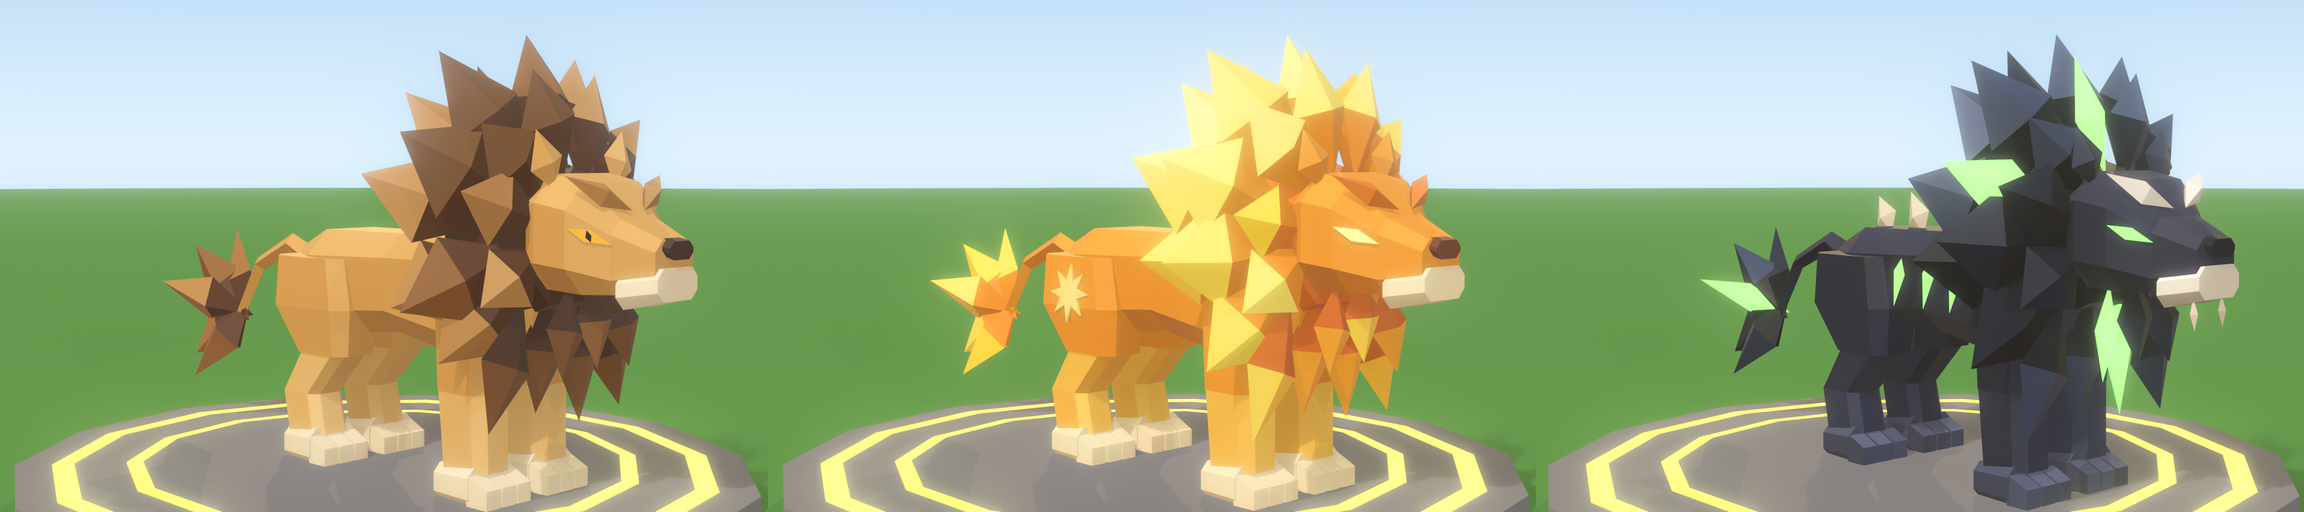
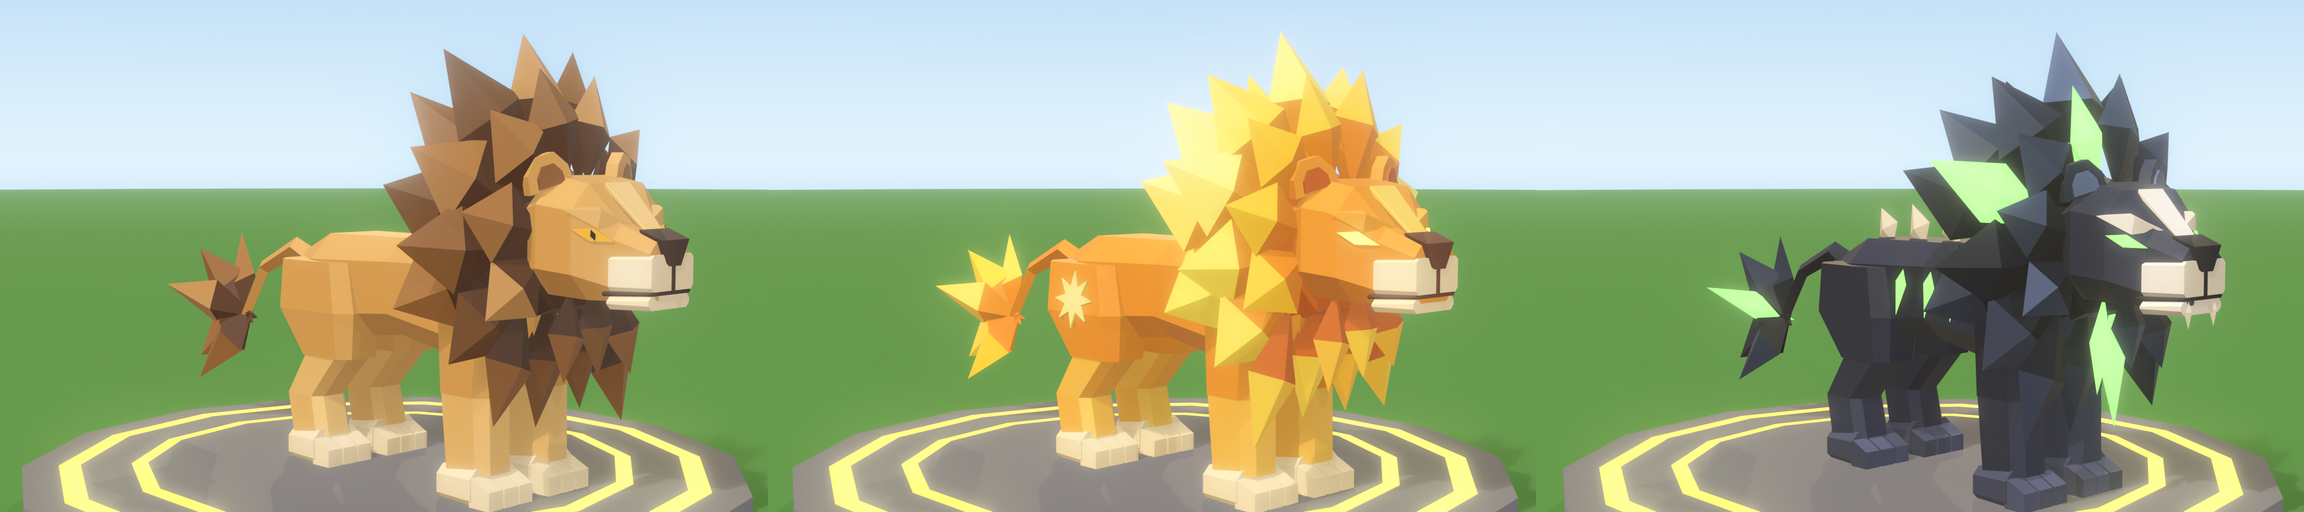
STATION-033: lion faces after the reference (wrapped muzzle, nose wedge, mouth line, brow ledge, rounded ears)

diff --git a/tools/blender/stations/assets/lions.py b/tools/blender/stations/assets/lions.py
@@ -190,26 +190,40 @@ def lion_model(p, seed):
             *paw(x, HIND + 0.12, cream, rng),
         ]
 
-    # the head: a boxy muzzle stepping up to a broad brow, one pale block for the lips and chin
-    skull = loft("skull", [yring(*r) for r in ((-2.45, 2.98, 0.32, 0.24, 0.24, 0.12), (-2.0, 3.0, 0.46, 0.42, 0.36, 0.16), (-1.65, 3.15, 0.76, 0.64, 0.52, 0.28), (-1.25, 3.2, 0.78, 0.68, 0.55, 0.3), (-0.8, 3.15, 0.64, 0.6, 0.5, 0.26))], body, rng)
+    # the head, after the reference: a short deep muzzle with a blunt front, stepping up to a broad
+    # brow; the pale lips wrap the front of the snout under a dark wedge of a nose, the chin sits a
+    # little back under a dark line of a mouth. The lips, mouth and chin have small corner cuts and
+    # stand just proud of the skull, or its own cut corners swallow them
+    skull = loft("skull", [yring(*r) for r in ((-2.4, 2.95, 0.34, 0.3, 0.3, 0.12), (-2.0, 3.0, 0.44, 0.42, 0.38, 0.15), (-1.7, 3.18, 0.74, 0.66, 0.56, 0.28), (-1.25, 3.22, 0.78, 0.7, 0.58, 0.3), (-0.8, 3.15, 0.64, 0.6, 0.5, 0.26))], body, rng)
     head = groups["head"]
     head.append(skull)
-    head.append(loft("muzzle", [yring(-2.5, 2.8, 0.34, 0.14, 0.2, 0.1), yring(-2.08, 2.76, 0.47, 0.14, 0.26, 0.13)], tone(p["muzzle"], p.get("paw_kind", PALE)), rng))
-    head.append(loft("nose", [yring(-2.54, 3.12, 0.2, 0.09, 0.1, 0.07), yring(-2.3, 3.18, 0.22, 0.08, 0.08, 0.07)], tone(p["nose"]), rng))
+    pale, dark = tone(p["muzzle"], p.get("paw_kind", PALE)), tone(p["nose"])
+    head.append(loft("lips", [yring(-2.44, 2.93, 0.36, 0.19, 0.185, 0.04), yring(-1.98, 2.92, 0.475, 0.19, 0.19, 0.05)], pale, rng))
+    head.append(loft("mouth", [yring(-2.42, 2.725, 0.34, 0.025, 0.025, 0.02), yring(-1.9, 2.705, 0.47, 0.025, 0.03, 0.02)], dark, rng))
+    head.append(loft("chin", [yring(-2.4, 2.63, 0.35, 0.075, 0.08, 0.05), yring(-1.95, 2.61, 0.46, 0.075, 0.07, 0.06)], pale, rng))
+    # the nose: wide on top, narrow below, wrapped over the front edge, with a line down to the mouth
+    head.append(loft("nose", [[(0.24, -2.47, 3.27), (0.1, -2.47, 3.0), (-0.1, -2.47, 3.0), (-0.24, -2.47, 3.27)], [(0.26, -2.2, 3.37), (0.14, -2.2, 3.2), (-0.14, -2.2, 3.2), (-0.26, -2.2, 3.37)]], dark, rng))
+    head.append(loft("philtrum", [quad(-2.46, 2.87, 0.02, 0.13, 0.13), quad(-2.43, 2.87, 0.02, 0.13, 0.13)], dark, rng))
+    head.append(loft("bridge", [yring(-2.2, 3.35, 0.15, 0.02, 0.03, 0.015), yring(-1.72, 3.83, 0.22, 0.02, 0.06, 0.015)], T("bridge"), rng))
+    ear = [(-0.27, 0.0), (-0.25, 0.2), (-0.12, 0.37), (0.12, 0.37), (0.25, 0.2), (0.27, 0.0)]  # rounded
     for s in (1, -1):
-        head.append(shard((s * 0.1, -2.0, 3.5), (s * 0.8, -1.68, 3.86), 0.28, 0.24, T("brow"), rng, face=(0, -1, 0.3), at=0.45, name="brow"))
-        head.append(shard((s * 0.5, -1.3, 3.7), (s * 0.72, -1.22, 4.34), 0.52, 0.22, body, rng, at=0.45, name="ear"))
-        # a slanted slit of an eye on the plane between the muzzle and the cheek
-        at, n = k.land(skull, (s * 0.55, -1.8, 3.24), (s * 0.6, -0.8, 0.0))
+        # a ledge of a brow over the eye, low at the nose and a little higher outside
+        head.append(shard((s * 0.16, -2.02, 3.42), (s * 0.84, -1.66, 3.58), 0.3, 0.22, T("brow"), rng, face=(0, -1, 0.6), name="brow"))
+        frame = k._frame(Vector((s * 0.35, -1, 0)), (s * 0.3, 0, 1))
+        at = Vector((s * 0.56, -1.2, 3.78))
+        head.append(plate("ear", at, frame, ear, 0.14, body, rng))
+        head.append(plate("ear", at + frame[2] * 0.14, frame, [(u * 0.6, 0.03 + v * 0.62) for u, v in ear], 0.03, T("ear_in"), rng))
+        # a slit of an eye high on the plane between the muzzle and the cheek
+        at, n = k.land(skull, (s * 0.55, -1.85, 3.3), (s * 0.6, -0.8, 0.1))
         fx, fy, fz = k._frame(n)
-        slit = [(-0.21, -0.075), (0.0, 0.07), (0.25, 0.095), (0.07, -0.045)]
+        slit = [(-0.2, -0.06), (0.02, 0.08), (0.24, 0.07), (0.06, -0.05)]
         if p.get("glow_eyes"):
             groups["head_glow"].append(plate("eye", at, (fx * s, fy, fz), slit, 0.04, None, rng, m=glow))
         else:
             head.append(plate("eye", at, (fx * s, fy, fz), slit, 0.035, tone(p["iris"]), rng))
-            head.append(plate("pupil", at, (fx * s, fy, fz), [(0.0, -0.05), (0.055, 0.0), (0.045, 0.075), (-0.005, 0.02)], 0.02, tone(INK), rng, lift=0.036))
+            head.append(plate("pupil", at, (fx * s, fy, fz), [(0.0, -0.045), (0.05, 0.0), (0.045, 0.07), (-0.005, 0.02)], 0.02, tone(INK), rng, lift=0.036))
         if p.get("fang"):
-            head.append(shard((s * 0.24, -2.36, 2.62), (s * 0.24, -2.38, 2.28), 0.13, 0.1, tone(p["fang"], PALE), rng, name="fang"))
+            head.append(shard((s * 0.22, -2.38, 2.76), (s * 0.22, -2.4, 2.4), 0.13, 0.1, tone(p["fang"], PALE), rng, name="fang"))
     grow = Matrix.Translation((0, -1.0, 3.1 + LIFT)) @ Matrix.Scale(HEAD, 4) @ Matrix.Translation((0, 1.0, -3.1))
     for ob in head + groups["head_glow"]:
         ob.data.transform(grow)
@@ -266,7 +280,7 @@ def lion_model(p, seed):
 def lion():
     """Lion: tawny, a dark brown mane, pale paws and muzzle, amber eyes."""
     return lion_model(
-        dict(body=(214, 158, 80), fore=(226, 178, 102), paw=(236, 218, 180), muzzle=(238, 222, 188), nose=(62, 40, 34), brow=(176, 122, 58), iris=(244, 180, 40),
+        dict(body=(214, 158, 80), fore=(226, 178, 102), paw=(236, 218, 180), muzzle=(238, 222, 188), nose=(62, 40, 34), brow=(220, 168, 92), bridge=(230, 184, 110), ear_in=(150, 96, 50), iris=(244, 180, 40),
              core=(74, 44, 24), mane_root=(88, 52, 26), mane=[(142, 92, 44), (168, 114, 56), (114, 72, 34), (188, 134, 70)], bib_root=(70, 42, 22), bib=[(120, 76, 36), (142, 92, 46)]),
         3,
     )
@@ -284,7 +298,7 @@ def sun_lion():
     """Sun Lion (mythic): a golden coat, a mane of yellow crystal, a sun on each haunch, glowing eyes, a
     flame of a tail."""
     return lion_model(
-        dict(body=(242, 150, 38), fore=(252, 184, 64), paw=(250, 226, 176), muzzle=(250, 228, 180), mane_kind=FIRE, nose=(118, 62, 38), brow=(226, 122, 30),
+        dict(body=(242, 150, 38), fore=(252, 184, 64), paw=(250, 226, 176), muzzle=(250, 228, 180), mane_kind=FIRE, nose=(104, 54, 34), brow=(246, 166, 48), bridge=(255, 192, 72), ear_in=(206, 96, 30),
              core=(214, 104, 22), mane_root=(240, 140, 24), mane=[(255, 210, 44), (255, 222, 70), (255, 196, 36), (255, 226, 84)], bib_root=(214, 104, 22), bib=[(248, 164, 36), (255, 190, 46), (255, 210, 60)],
              glow=SUNFIRE, glow_eyes=True, lit=0.08, extra=sun_extra),
         5,
@@ -308,7 +322,7 @@ def shadow_lion():
     """Shadow Lion (legendary): ink black, a bone mask and spine, a mane of black crystal with a few green
     shards, glowing green ribs, eyes and tail."""
     return lion_model(
-        dict(kind=COOL, paw_kind=COOL, body=(30, 32, 44), fore=(40, 44, 60), paw=(58, 62, 80), muzzle=BONE, nose=(14, 16, 20), brow=BONE, fang=BONE,
+        dict(kind=COOL, paw_kind=COOL, body=(30, 32, 44), fore=(40, 44, 60), paw=(58, 62, 80), muzzle=BONE, nose=(14, 16, 20), brow=BONE, bridge=BONE, ear_in=(66, 76, 98), fang=BONE,
              core=(8, 9, 13), mane_root=(10, 11, 16), mane=[(34, 40, 56), (22, 26, 38), (50, 58, 78), (16, 18, 26)], bib_root=(8, 9, 13), bib=[(26, 30, 42), (38, 44, 60)],
              glow=SHADOW, glow_eyes=True, sparks=5, extra=shadow_extra),
         7,

diff --git a/docs/decisions/0050-animal-stations-faceted-lion-style.md b/docs/decisions/0050-animal-stations-faceted-lion-style.md
@@ -12,7 +12,9 @@ plain preview).
 
 - The Lion, the Sun Lion and the new Shadow Lion are built from scratch in
   `tools/blender/stations/assets/lions.py`, no longer on the predator body in `animals.py`: lofted
-  long blocky bodies, compact paws with three short toes, a boxy face with slit eyes, a mane of about 30 big
+  long blocky bodies, compact paws with three short toes, a face after the reference (a short deep
+  muzzle, pale lips wrapped round its front, a dark wedge of a nose with a line down to the mouth, a
+  chin, a brow ledge over slit eyes, rounded ears, a lighter stripe up the nose), a mane of about 30 big
   crystal shards with a bib down the chest, and a fan of six shards for the tail tuft.
 - Nothing is smooth and nothing is painted with gradients. Every face has one colour (the `lp`
   colour attribute), picked from three tones by which way the face points plus a little chance, and
@@ -21,14 +23,14 @@ plain preview).
   mask, spine and fangs, glowing green ribs, eyes and a few shards. No lion has claws, and the Lion
   and the Sun Lion have no fangs, as on the reference.
 - Kept plain on purpose. A first version (about 75 shards, bevelled sections, a nose bridge, cheek
-  tufts, a mouth line, an eight-rayed sun, claws) was too detailed for SHANNON; this one has fewer,
+  tufts, an eight-rayed sun, claws) was too detailed for SHANNON; this one has fewer,
   bigger faces. Add a piece only if it reads from across the arena. A squat version with long flat
   feet was also wrong, and so was a taller one: SHANNON wants the body long, the hind legs standing
   well behind the front ones (`HIND` in lions.py), not more height.
 - The rig is the same set of pieces (body, head with the mane, four legs, tail, glow pieces); the
   joints moved a little and are recorded per build as before. Each lion is scaled to about the length
   of the model it replaces (13, 16 and 15 studs), so the arena spacing holds.
-- About 1,200 to 1,300 triangles each. The budget is no longer a design limit for these models.
+- About 1,350 to 1,450 triangles each. The budget is no longer a design limit for these models.
 - `build.py --beauty` renders a presentation card of an asset (a hero shot on a pedestal with bloom,
   and front, side and back views) to `build/blender/stations/beauty`; the cards in `docs/concepts`
   come from it. The pedestal, rings and bloom are render dressing, not part of the model.
